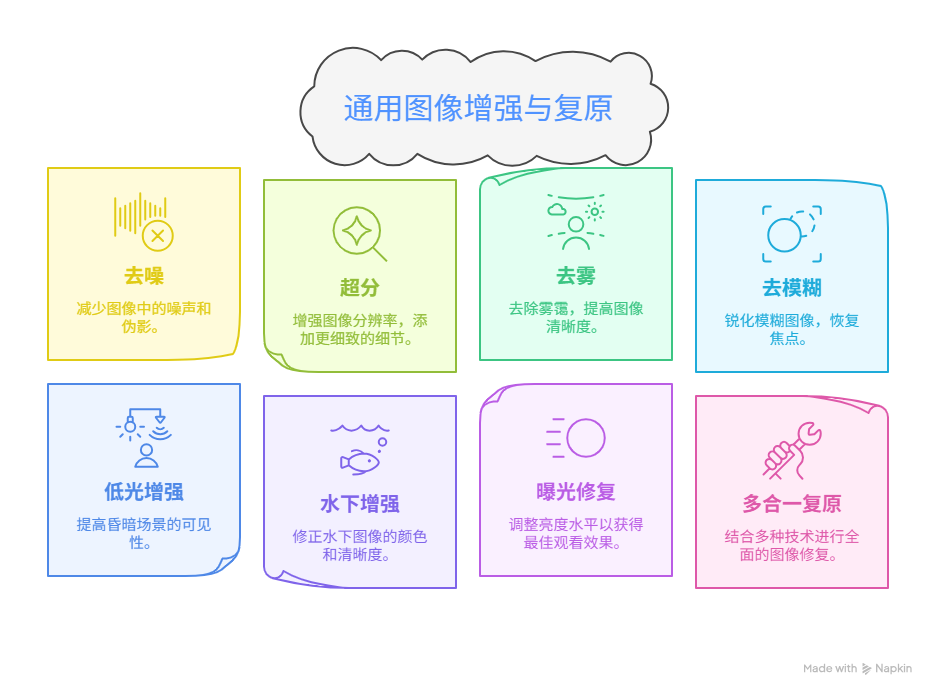
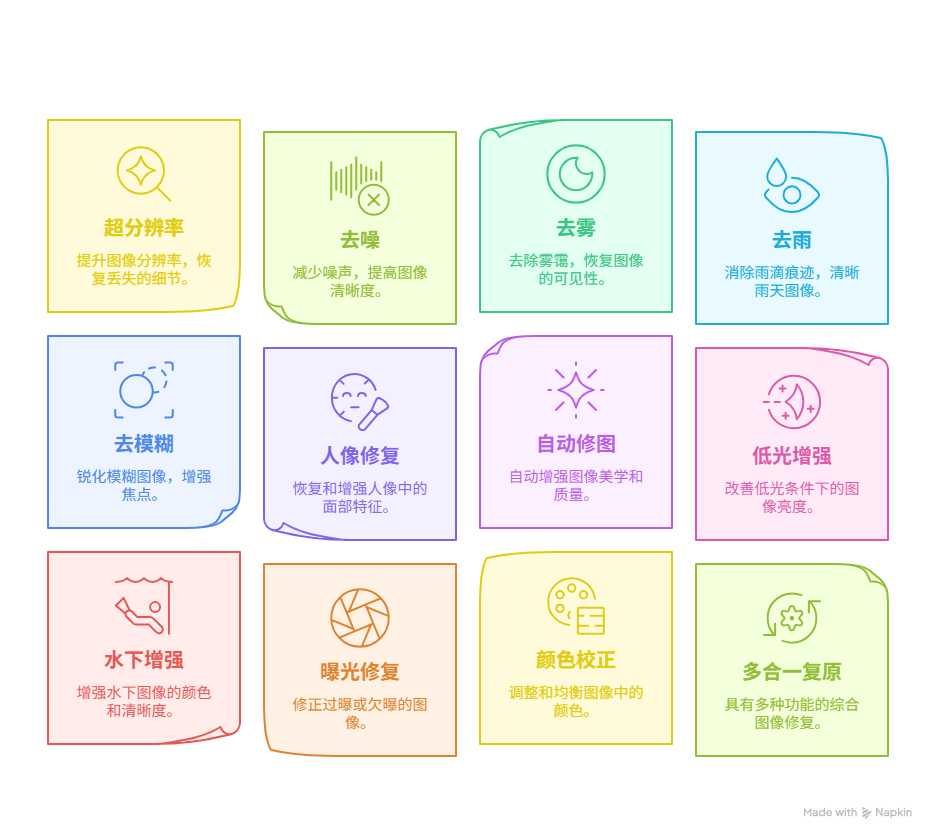
2

diff --git a/research.html b/research.html
@@ -113,12 +113,12 @@
                         </div>
                     </div>
                     <div class="row">
-                        <div class="col-md-4 text-center"><img src="assets/images/publication/research_image_enhancement" alt="">
+                        <div class="col-md-4 text-center"><img src="assets/images/publication/research_image_enhancement.png" alt="">
                             <h6 class="research-title">Universal Image Enhancement and Restoration </h6>
                         </div>
                         <div class="col-md-8 research-content">
-                            <p>Universal image enhancement and restoration are pivotal in improving the quality and usability of images across a wide array of domains. By addressing fundamental challenges such as noise removal, super-resolution, dehazing, and deblurring, these techniques help recover lost details, enhance visual clarity, and make images more informative and aesthetically pleasing. Low-light enhancement and underwater image restoration are particularly significant in specialized environments, where capturing accurate, high-quality imagery is crucial for fields like surveillance, scientific research, and photography. Exposure correction ensures that images reflect true-to-life lighting conditions, even in challenging circumstances. The concept of multi-functional restoration encompasses all of these techniques, providing a unified solution for a diverse set of image quality issues. Together, these advancements have far-reaching implications, empowering industries from healthcare and autonomous driving to entertainment and environmental monitoring, making images not only clearer but also more actionable in a data-driven world.</p>
-                            <p>We focus on the research of super-resolution, denoising, deblurring, dehazing, low-lignt enhancement, underwater enhancement, exposure correction, and all-in-one restoration.</p>
+                            <p>Universal image enhancement and restoration techniques are designed to significantly improve image quality across various applications. These methods address key issues such as super-resolution, denoising, dehazing, and rain removal, enhancing clarity and detail. Deblurring and face restoration restore sharpness and accuracy, while automatic photo retouching simplifies the enhancement process. Low-light enhancement and underwater restoration ensure high-quality visuals in challenging environments. Exposure correction and color correction refine lighting and hues for true-to-life representation. All-in-one restoration combines these solutions into a seamless toolset, enabling clearer, more accurate images for diverse industries, from healthcare to entertainment.</p>
+                            <p>We focus on the research of super-resolution, denoising, deblurring, dehazing, deraining, face restoration, retouching, low-lignt enhancement, underwater enhancement, exposure correction, color correction, and all-in-one restoration.</p>
                         </div>
                     </div>
                     <div class="row">
